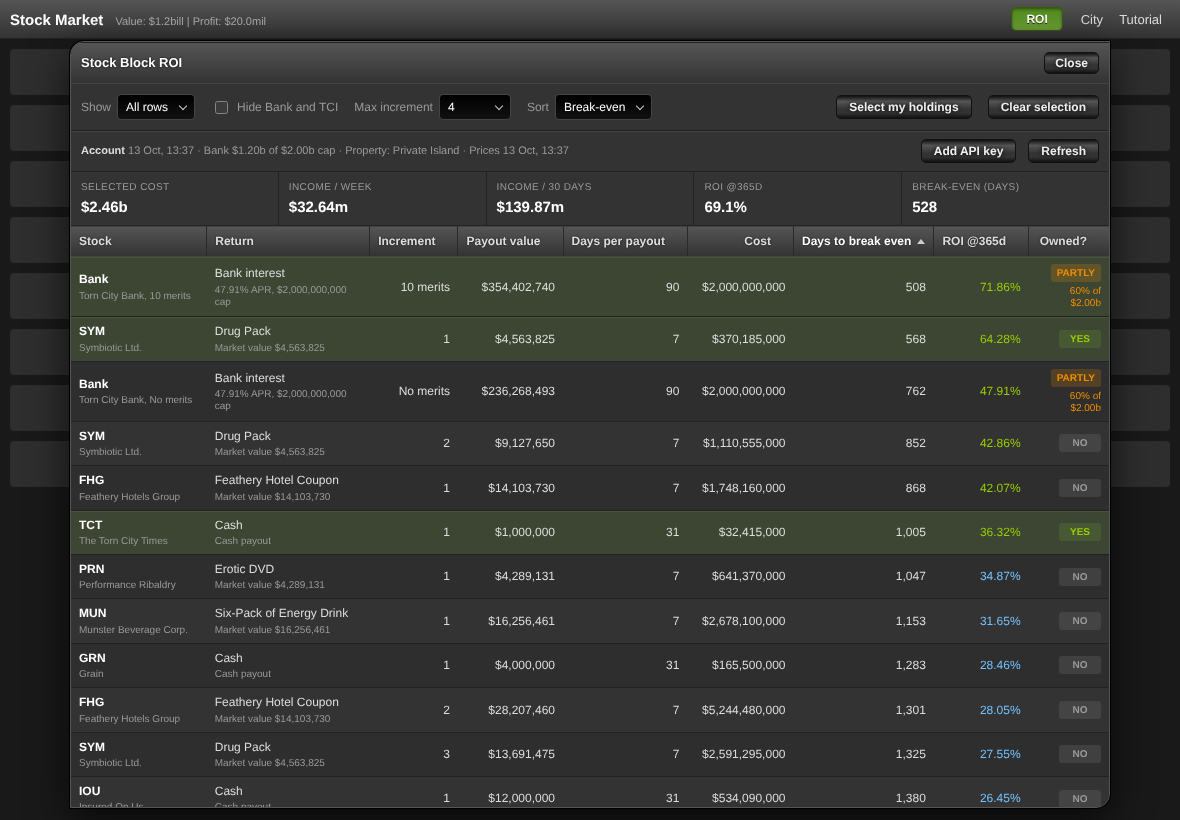
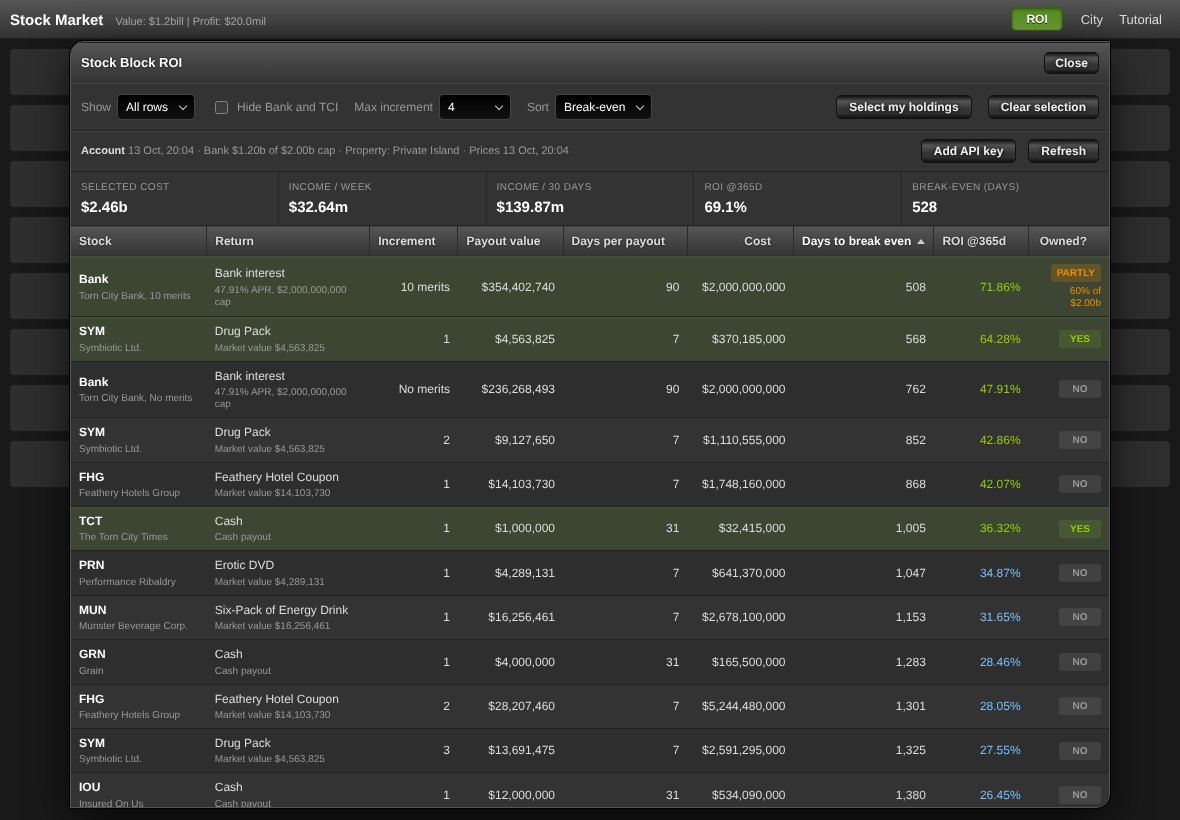
Fix Select my holdings skipping owned rows

diff --git a/Torn Stock ROI/Torn-Stock-ROI.user.js b/Torn Stock ROI/Torn-Stock-ROI.user.js
@@ -1,7 +1,7 @@
 // ==UserScript==
 // @name         Torn Stock Block ROI
 // @namespace    kamiren.torn-stock-roi
-// @version      1.2.3
+// @version      1.2.4
 // @description  Shows which Torn stock benefit blocks, and the bank, pay for themselves fastest, using live prices, item values and your own holdings. Opens on the stock market page; works on desktop and Torn PDA.
 // @author       KamiRen [2805199]
 // @license      MIT
@@ -1708,6 +1708,11 @@ button:focus-visible {
   function hasAccount() {
     return account.updatedAt > 0;
   }
+  // The two bank and TCI rows are two possible states of one account, so only the row that matches
+  // the merits detected from the bank profit counts as yours.
+  function meritMatch(m) {
+    return (m === 1.5) === account.bank.meritRatio >= 1.4;
+  }
   function cap() {
     return account.property.oilRig ? 3e9 : 2e9;
   }
@@ -1776,7 +1781,7 @@ button:focus-visible {
         pay: bi,
         d: DAYS,
         c: cp,
-        own: has && inv >= cp,
+        own: has && inv >= cp && meritMatch(m[1]),
         key: 'Bank ' + m[0],
         kind: 'bank',
         m: m[1],
@@ -1791,7 +1796,7 @@ button:focus-visible {
           pay: bi * 0.1,
           d: DAYS,
           c: tci.requirement * tci.price,
-          own: has && incOf('TCI') >= 1,
+          own: has && incOf('TCI') >= 1 && meritMatch(m[1]),
           key: 'TCI ' + m[0],
           kind: 'tci',
           m: m[1],
@@ -1804,24 +1809,28 @@ button:focus-visible {
     });
     return rows;
   }
+  function bankState(r) {
+    var v = account.bank.invested;
+    if (!meritMatch(r.m) || v <= 0) return 'NO';
+    return v >= cap() ? 'YES' : 'PARTLY';
+  }
   function ownRank(r) {
     if (!hasAccount()) return 0;
     if (r.kind === 'bank') {
-      var v = account.bank.invested;
-      return v >= cap() ? 3 : v > 0 ? 2.5 : 0;
+      var st = bankState(r);
+      return st === 'YES' ? 3 : st === 'PARTLY' ? 2.5 : 0;
     }
     return r.own ? 3 : 0;
   }
   function saveSel() {
     Store.set('selection', selection);
   }
+  // Selects every row marked YES. A higher increment includes the lower ones, so the totals count only
+  // the highest selected increment of each stock (see totals in draw).
   function selectHoldings(rows) {
     selection.rows = [];
-    var merits = account.bank.meritRatio >= 1.4;
     rows.forEach(function (r) {
-      if (r.kind === 'stock' && incOf(r.a) === r.i) selection.rows.push(r.key);
-      else if (r.kind === 'bank' && account.bank.invested > 0 && (r.m === 1.5) === merits)
-        selection.rows.push(r.key);
+      if (r.kind === 'bank' ? bankState(r) !== 'NO' : r.own) selection.rows.push(r.key);
     });
     selection.initialised = true;
     saveSel();
@@ -1830,10 +1839,7 @@ button:focus-visible {
   /* ---------- column values and filters ---------- */
   function ownLabel(r, has) {
     if (!has) return '-';
-    if (r.kind === 'bank') {
-      var v = account.bank.invested;
-      return v >= cap() ? 'YES' : v > 0 ? 'PARTLY' : 'NO';
-    }
+    if (r.kind === 'bank') return bankState(r);
     return r.own ? 'YES' : 'NO';
   }
   // What the table shows for a cell, so a filter always matches what the person sees.
@@ -1977,18 +1983,19 @@ button:focus-visible {
       var cls = r.roi >= 35 ? 'hi' : r.roi >= 15 ? 'mid' : 'lo',
         ow;
       if (!has) ow = '<span class="d">-</span>';
-      else if (r.kind === 'bank')
+      else if (r.kind === 'bank') {
+        var bs = bankState(r);
         ow =
-          iv >= cp
+          bs === 'YES'
             ? '<span class="pill y">YES</span><span class="sub">' + fm(iv) + '</span>'
-            : iv > 0
+            : bs === 'PARTLY'
               ? '<span class="pill pp">PARTLY</span><span class="ppn">' +
                 Math.round((iv / cp) * 100) +
                 '% of ' +
                 sh(cp) +
                 '</span>'
               : '<span class="pill n">NO</span>';
-      else ow = r.own ? '<span class="pill y">YES</span>' : '<span class="pill n">NO</span>';
+      } else ow = r.own ? '<span class="pill y">YES</span>' : '<span class="pill n">NO</span>';
       h +=
         '<tr data-k="' +
         esc(r.key) +
@@ -2045,13 +2052,20 @@ button:focus-visible {
       t.querySelector('.ar').className = 'ar' + (on ? (asc ? ' up' : ' dn') : '');
     });
     renderFilterBar(rows, has, list.length);
-    var c = 0,
+    // A higher increment already includes the lower ones (cost and payout are cumulative), so for each
+    // stock only its highest selected increment counts. Bank and TCI count once each, at the higher merits.
+    var top = {},
+      c = 0,
       d = 0;
     rows.forEach(function (r) {
-      if (r.sel) {
-        c += r.c;
-        d += r.pay / r.d;
-      }
+      if (!r.sel) return;
+      var g = r.kind === 'stock' ? r.a : r.kind,
+        lvl = r.kind === 'stock' ? r.i : r.m;
+      if (!top[g] || lvl > top[g].lvl) top[g] = { r: r, lvl: lvl };
+    });
+    Object.keys(top).forEach(function (g) {
+      c += top[g].r.c;
+      d += top[g].r.pay / top[g].r.d;
     });
     $('sc').textContent = c ? sh(c) : '-';
     $('sw').textContent = d ? sh(d * 7) : '-';

diff --git a/Torn Stock ROI/README.md b/Torn Stock ROI/README.md
@@ -40,10 +40,13 @@ fast each one pays for itself.
 | Cost | Shares needed x share price |
 | Days to break even | Cost / (payout / days per payout) |
 | ROI @365d | Yearly payout / cost |
-| Owned? | **YES** if you hold that increment or more. Bank: **YES** at the cap, **PARTLY** below it |
+| Owned? | **YES** if you hold that increment or more. Bank: **YES** at the cap, **PARTLY** below it. Bank and TCI: only the row that matches your merits |
 
 Increment *n* needs requirement x (2^*n* - 1) shares in total and pays *n* x the base return
 ([Torn wiki](https://wiki.torn.com/wiki/Stock_Market)).
+
+**Select my holdings** selects every YES row. A higher increment includes the lower ones, so the totals
+count only the highest selected increment of each stock.
 
 </details>
 

diff --git a/Torn Stock ROI/greasyfork.md b/Torn Stock ROI/greasyfork.md
@@ -46,7 +46,8 @@
 <li><b>Increment:</b> 1 to 4. Bank and TCI: <i>No merits</i> or <i>10 merits</i>.</li>
 <li><b>Days to break even:</b> cost divided by (payout divided by days per payout).</li>
 <li><b>ROI @365d:</b> yearly payout divided by cost.</li>
-<li><b>Owned?:</b> <b>YES</b> if you hold that increment or more. Bank: <b>YES</b> at the cap, <b>PARTLY</b> below it.</li>
+<li><b>Owned?:</b> <b>YES</b> if you hold that increment or more. Bank: <b>YES</b> at the cap, <b>PARTLY</b> below it. Bank and TCI: only the row that matches your merits.</li>
+<li><b>Select my holdings:</b> selects every <b>YES</b> row. The totals count only the highest selected increment of each stock, because a higher increment includes the lower ones.</li>
 </ul>
 </details>
 
